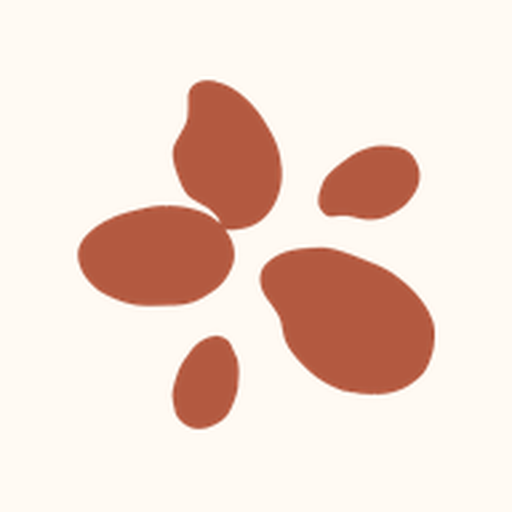
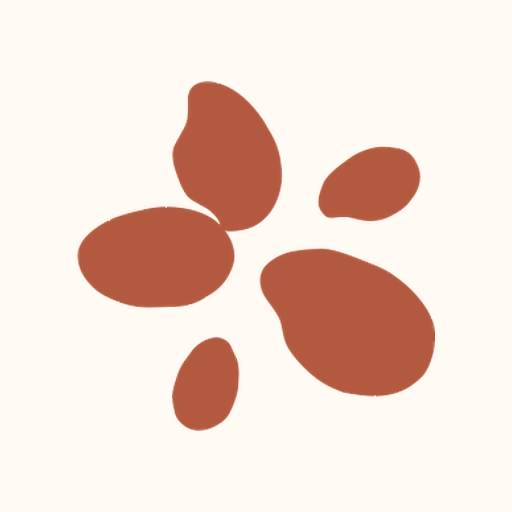
아이콘을 원본 고화질 로고로 교체, 공유 미리보기에 '꽃,밥에피다' 로고 사용 (v8)
Claude-Session: https://claude.ai/code/session_015EwCLgduHG9Kt6mtZtYyRE

diff --git a/index.html b/index.html
@@ -9,7 +9,7 @@
 <meta name="apple-mobile-web-app-status-bar-style" content="default">
 <meta name="apple-mobile-web-app-title" content="한식페스타">
 <link rel="manifest" href="manifest.webmanifest">
-<link rel="apple-touch-icon" href="apple-touch-icon.png">
+<link rel="apple-touch-icon" href="apple-touch-icon.png?v8">
 <title>한식페스타 매출</title>
 <link rel="icon" type="image/png" href="favicon.png">
 <meta name="description" content="국립중앙박물관 한식페스타 10.23(금)–10.24(토) 판매·매출 관리">
@@ -17,7 +17,7 @@
 <meta property="og:title" content="한식페스타 매출">
 <meta property="og:description" content="국립중앙박물관 한식페스타 10.23(금)–10.24(토) 판매·매출 관리">
 <meta property="og:url" content="https://yeri099-oss.github.io/NMK/">
-<meta property="og:image" content="https://yeri099-oss.github.io/NMK/og-image.png">
+<meta property="og:image" content="https://yeri099-oss.github.io/NMK/og-image.png?v8">
 <meta property="og:image:width" content="1200">
 <meta property="og:image:height" content="630">
 <meta name="twitter:card" content="summary_large_image">
@@ -572,7 +572,7 @@ const firebaseConfig = {
 };
 
 // ---- 설정 ----
-const APP_VERSION = "v7"; // 고칠 때마다 올려주세요. 화면 상단에 표시되고, 새 버전이 올라오면 업데이트 버튼이 떠요
+const APP_VERSION = "v8"; // 고칠 때마다 올려주세요. 화면 상단에 표시되고, 새 버전이 올라오면 업데이트 버튼이 떠요
 const EMAIL_DOMAIN = "festa.goodbab.app";             // 아이디 → 아이디@festa.goodbab.app
 const MASTER_ID = "goodbab";                            // 최초 관리자 아이디
[1 lines of base64/hex data omitted]

diff --git a/README.md b/README.md
@@ -37,7 +37,7 @@
 
 ## 알아두면 좋은 점
 - **앱처럼 쓰기:** 아이패드/아이폰 Safari로 앱 주소를 열고 **공유(□↑) → 홈 화면에 추가**를 누르면 홈 화면 아이콘으로 주소창 없이 열려요. (안드로이드 크롬: ⋮ → 홈 화면에 추가)
-- **버전:** 화면 맨 위 작은 글씨줄에 버전(예: v7)이 보여요. 새 버전이 올라오면 위에 **🔄 새 버전 · 눌러서 업데이트** 버튼이 떠요. 코드를 고치면 `index.html` 의 `APP_VERSION` 을 올려 주세요.
+- **버전:** 화면 맨 위 작은 글씨줄에 버전(예: v8)이 보여요. 새 버전이 올라오면 위에 **🔄 새 버전 · 눌러서 업데이트** 버튼이 떠요. 코드를 고치면 `index.html` 의 `APP_VERSION` 을 올려 주세요.
 - **인터넷이 잠깐 끊겨도 판매 등록이 됩니다.** 기기에 먼저 저장되고, 연결되면 자동으로 올라가요 (판매내역에 "업로드 대기" 표시). 단, 업로드 전에 그 기기의 앱을 지우거나 브라우저 데이터를 삭제하면 안 돼요.
 - 행사 전에 연습한 판매는 대시보드의 **행사일 외**로 따로 보이고, [관리] → **행사일 외 판매내역 삭제**로 한 번에 지울 수 있어요.
 - 상품별 매출은 **정가 기준**이고, 할인은 합계 아래에 따로 빠져서 **실매출**로 표시돼요.
